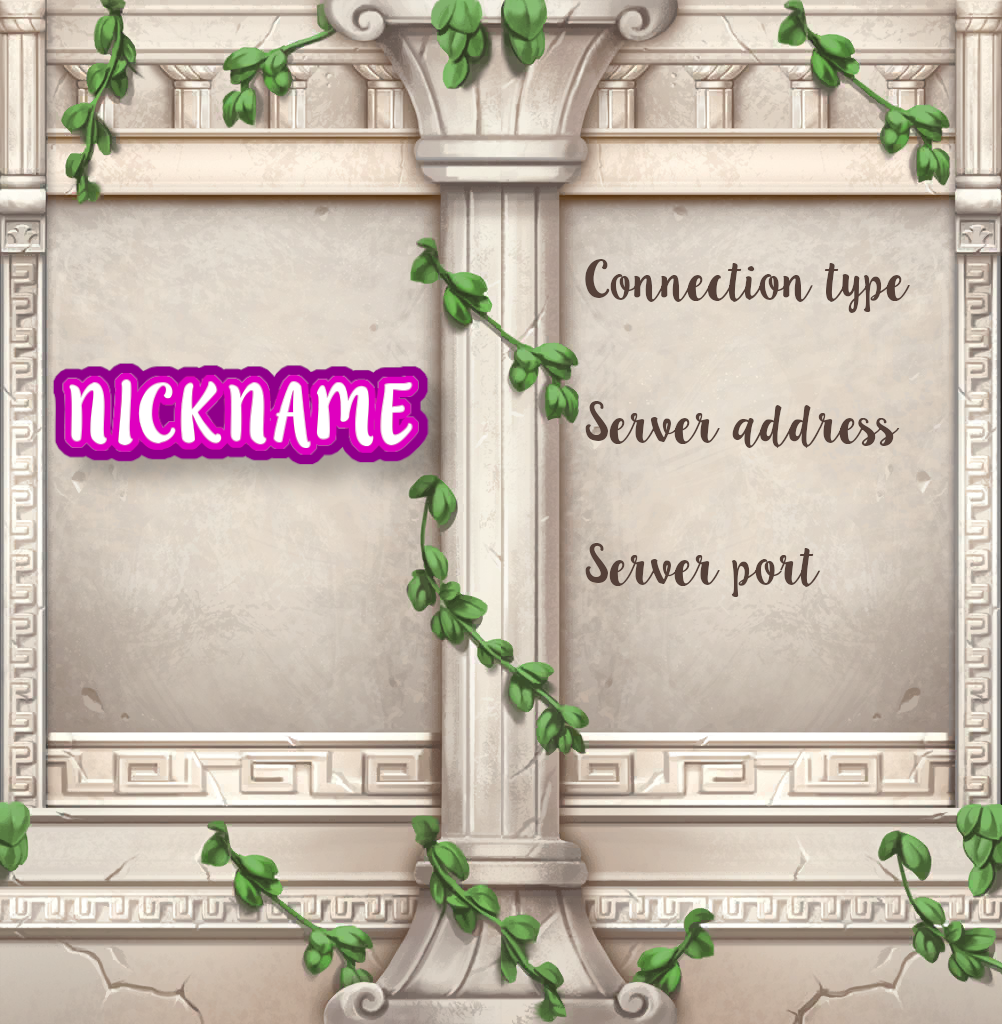
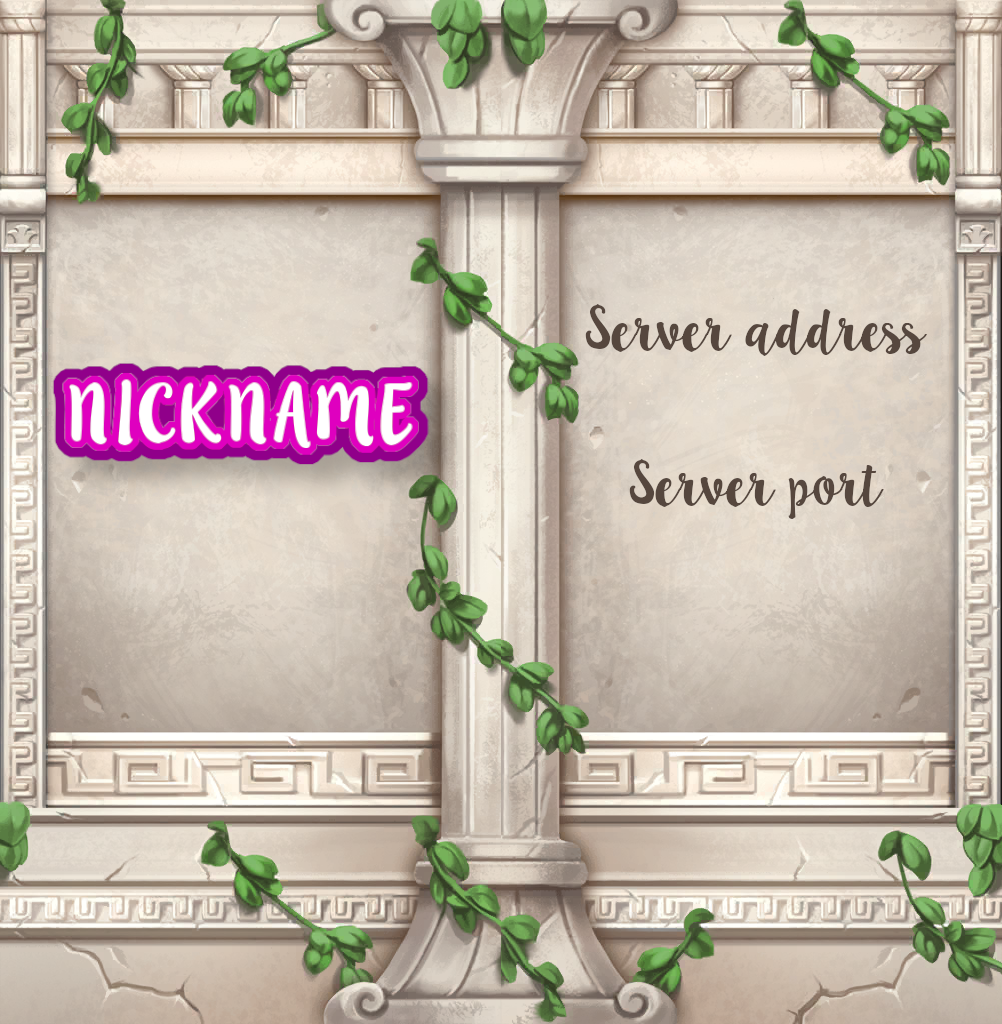
Update GUI

Changed region(s): [[0.5878, 0.25, 0.9281, 0.3438], [0.5878, 0.375, 0.8972, 0.5], [0.5878, 0.5312, 0.8044, 0.5938]]

diff --git a/src/main/java/it/polimi/ingsw/client/view/gui/panels/NicknamePanel.java b/src/main/java/it/polimi/ingsw/client/view/gui/panels/NicknamePanel.java
@@ -17,9 +17,8 @@ public class NicknamePanel extends SantoriniPanel implements ActionListener {
     private JButton sendButton;
     private JLabel stand;
     private JTextField nickText;
-    private JComboBox connectType;
-    private JComboBox serverAdd;
-    private JComboBox serverPort;
+    private JTextField serverAdd;
+    private JTextField serverPort;
     private JLabel errorMessage;
 
     private boolean error = false;
@@ -67,22 +66,10 @@ public class NicknamePanel extends SantoriniPanel implements ActionListener {
         a.anchor = GridBagConstraints.WEST;
         a.weightx = 1;
         a.weighty = 0f;
-        a.insets = new Insets(250,30,0,0);
+        a.insets = new Insets(250,40,0,0);
         nickText = new JTextField(14);
         nickText.setVisible(true);
         stand.add(nickText, a);
-
-        GridBagConstraints b = new GridBagConstraints();
-        b.gridx = 1;
-        b.gridy = 0;
-        b.anchor = GridBagConstraints.EAST;
-        b.weightx = 1;
-        b.weighty = 0.1;
-        b.insets = new Insets(90,0,0,130);
-        connectType = new JComboBox();
-        connectType.addItem("Socket");
-        connectType.setVisible(true);
-        stand.add(connectType, b);
 
         GridBagConstraints c = new GridBagConstraints();
         c.gridx = 1;
@@ -90,9 +77,8 @@ public class NicknamePanel extends SantoriniPanel implements ActionListener {
         c.anchor = GridBagConstraints.EAST;
         c.weightx = 1;
         c.weighty = 0.1;
-        c.insets = new Insets(-30,0,0,110);
-        serverAdd = new JComboBox();
-        serverAdd.addItem("127.0.0.1");
+        c.insets = new Insets(-135,0,0,70);
+        serverAdd = new JTextField(10);
         serverAdd.setVisible(true);
         stand.add(serverAdd, c);
 
@@ -102,9 +88,8 @@ public class NicknamePanel extends SantoriniPanel implements ActionListener {
         d.anchor = GridBagConstraints.EAST;
         d.weightx = 1;
         d.weighty = 0.1;
-        d.insets = new Insets(45,0,0,137);
-        serverPort = new JComboBox();
-        serverPort.addItem("1337");
+        d.insets = new Insets(0,0,0,70);
+        serverPort = new JTextField(10);
         serverPort.setVisible(true);
         stand.add(serverPort, d);
     }
@@ -138,7 +123,7 @@ public class NicknamePanel extends SantoriniPanel implements ActionListener {
 
         if (!e.getSource().equals(sendButton)) return;
         if (name == null || name.equals("")) {
-            errorMessage.setText("Error!, incorrect nickname");
+            errorMessage.setText("Error! Incorrect nickname...");
             errorMessage.setVisible(true);
             return;
         }
@@ -151,10 +136,8 @@ public class NicknamePanel extends SantoriniPanel implements ActionListener {
         else
             gui.initialRequest(
                     name,
-                    (String) serverAdd.getSelectedItem(),
-                    serverPort.getSelectedItem() == null
-                            ? Integer.parseInt((String) serverPort.getItemAt(0))
-                            : Integer.parseInt((String) serverPort.getSelectedItem())
+                    serverAdd.getText(),
+                    Integer.parseInt(serverPort.getText())
             );
 
         sendButton.setEnabled(false);

diff --git a/src/main/java/it/polimi/ingsw/client/view/gui/panels/BackgroundPanel.java b/src/main/java/it/polimi/ingsw/client/view/gui/panels/BackgroundPanel.java
@@ -6,8 +6,8 @@ import java.awt.image.BufferedImage;
 
 interface BackgroundPanel {
     String BACKGROUND = "/img/background/";
-    int WIDTH = 1067;
-    int HEIGHT = 600;
+    int WIDTH = 1245;//1067;
+    int HEIGHT = 700;//600;
 
     static ImageIcon getScaledImage(ImageIcon srcImg, int w, int h) {
         BufferedImage resizedImg = new BufferedImage(w, h, BufferedImage.TYPE_INT_ARGB);
